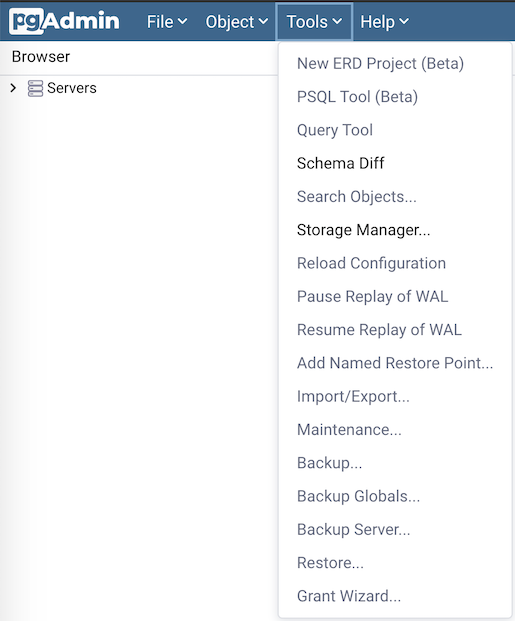
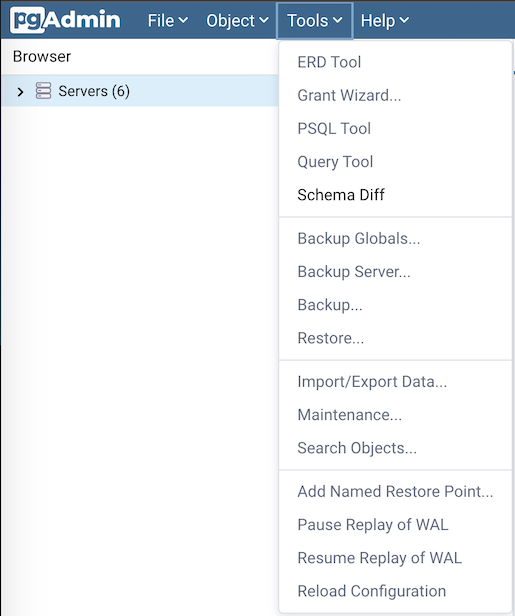
Rearrange tools menu on the basis of usability and form groups of similar sub-menus.

diff --git a/web/pgadmin/tools/backup/static/js/backup.js b/web/pgadmin/tools/backup/static/js/backup.js
@@ -14,14 +14,11 @@ import Notify from '../../../../static/js/helpers/Notifier';
 
 // Backup dialog
 define([
-  'sources/gettext', 'sources/url_for', 'jquery', 'underscore', 'sources/pgadmin',
-  'backbone', 'pgadmin.backgrid',
-  'pgadmin.backform', 'pgadmin.browser', 'sources/utils',
+  'sources/gettext', 'sources/url_for', 'underscore', 'pgadmin.browser',
   'tools/backup/static/js/menu_utils',
   'sources/nodes/supported_database_node',
 ], function(
-  gettext, url_for, $, _, pgAdmin, Backbone, Backgrid, Backform, pgBrowser,
-  commonUtils, menuUtils, supportedNodes
+  gettext, url_for, _, pgBrowser, menuUtils, supportedNodes
 ) {
 
   // if module is already initialized, refer to that.
@@ -61,7 +58,7 @@ define([
         module: this,
         applies: ['tools'],
         callback: 'startBackupGlobal',
-        priority: 12,
+        priority: 2,
         label: gettext('Backup Globals...'),
         icon: 'fa fa-save',
         enable: menuUtils.menuEnabledServer,
@@ -73,7 +70,7 @@ define([
         module: this,
         applies: ['tools'],
         callback: 'startBackupServer',
-        priority: 12,
+        priority: 2,
         label: gettext('Backup Server...'),
         icon: 'fa fa-save',
         enable: menuUtils.menuEnabledServer,
@@ -86,7 +83,7 @@ define([
         node: 'server',
         applies: ['context'],
         callback: 'startBackupGlobal',
-        priority: 12,
+        priority: 2,
         label: gettext('Backup Globals...'),
         icon: 'fa fa-save',
         enable: menuUtils.menuEnabledServer,
@@ -99,7 +96,7 @@ define([
         node: 'server',
         applies: ['context'],
         callback: 'startBackupServer',
-        priority: 12,
+        priority: 2,
         label: gettext('Backup Server...'),
         icon: 'fa fa-save',
         enable: menuUtils.menuEnabledServer,
@@ -111,7 +108,7 @@ define([
         module: this,
         applies: ['tools'],
         callback: 'backupObjects',
-        priority: 11,
+        priority: 2,
         label: gettext('Backup...'),
         icon: 'fa fa-save',
         enable: supportedNodes.enabled.bind(
@@ -129,7 +126,7 @@ define([
           module: this,
           applies: ['context'],
           callback: 'backupObjects',
-          priority: 11,
+          priority: 2,
           label: gettext('Backup...'),
           icon: 'fa fa-save',
           enable: supportedNodes.enabled.bind(

diff --git a/web/pgadmin/browser/server_groups/servers/static/js/server.js b/web/pgadmin/browser/server_groups/servers/static/js/server.js
@@ -105,14 +105,14 @@ define('pgadmin.node.server', [
         {
           name: 'reload_configuration', node: 'server', module: this,
           applies: ['tools', 'context'], callback: 'reload_configuration',
-          category: 'reload', priority: 6, label: gettext('Reload Configuration'),
+          category: 'reload', priority: 10, label: gettext('Reload Configuration'),
           icon: 'fa fa-redo-alt', enable : 'enable_reload_config',data: {
             data_disabled: gettext('Please select a server from the browser tree to reload the configuration files.'),
           },
         },{
           name: 'restore_point', node: 'server', module: this,
           applies: ['tools', 'context'], callback: 'restore_point',
-          category: 'restore', priority: 9, label: gettext('Add Named Restore Point...'),
+          category: 'restore', priority: 7, label: gettext('Add Named Restore Point...'),
           icon: 'fa fa-anchor', enable : 'is_applicable',data: {
             data_disabled: gettext('Please select any server from the browser tree to Add Named Restore Point.'),
           },
@@ -126,14 +126,14 @@ define('pgadmin.node.server', [
         },{
           name: 'wal_replay_pause', node: 'server', module: this,
           applies: ['tools', 'context'], callback: 'pause_wal_replay',
-          category: 'wal_replay_pause', priority: 7, label: gettext('Pause Replay of WAL'),
+          category: 'wal_replay_pause', priority: 8, label: gettext('Pause Replay of WAL'),
           icon: 'fa fa-pause-circle', enable : 'wal_pause_enabled',data: {
             data_disabled: gettext('Please select a connected database as a Super user and run in Recovery mode to Pause Replay of WAL.'),
           },
         },{
           name: 'wal_replay_resume', node: 'server', module: this,
           applies: ['tools', 'context'], callback: 'resume_wal_replay',
-          category: 'wal_replay_resume', priority: 8, label: gettext('Resume Replay of WAL'),
+          category: 'wal_replay_resume', priority: 9, label: gettext('Resume Replay of WAL'),
           icon: 'fa fa-play-circle', enable : 'wal_resume_enabled',data: {
             data_disabled: gettext('Please select a connected database as a Super user and run in Recovery mode to Resume Replay of WAL.'),
           },

diff --git a/web/pgadmin/tools/grant_wizard/static/js/GrantWizard.jsx b/web/pgadmin/tools/grant_wizard/static/js/GrantWizard.jsx
@@ -13,19 +13,19 @@ import url_for from 'sources/url_for';
 import React from 'react';
 import { Box } from '@material-ui/core';
 import { makeStyles } from '@material-ui/core/styles';
-import Wizard from '../helpers/wizard/Wizard';
-import WizardStep from '../helpers/wizard/WizardStep';
+import Wizard from '../../../../static/js/helpers/wizard/Wizard';
+import WizardStep from '../../../../static/js/helpers/wizard/WizardStep';
 import PgTable from 'sources/components/PgTable';
-import { getNodePrivilegeRoleSchema } from '../../../browser/server_groups/servers/static/js/privilege.ui.js';
-import { InputSQL, InputText, FormFooterMessage, MESSAGE_TYPE } from './FormComponents';
-import getApiInstance from '../api_instance';
-import SchemaView from '../SchemaView';
+import { getNodePrivilegeRoleSchema } from '../../../../../pgadmin/browser/server_groups/servers/static/js/privilege.ui.js';
+import { InputSQL, InputText, FormFooterMessage, MESSAGE_TYPE } from '../../../../static/js/components/FormComponents';
+import getApiInstance from '../../../../static/js/api_instance';
+import SchemaView from '../../../../static/js/SchemaView';
 import clsx from 'clsx';
 import Loader from 'sources/components/Loader';
 import Alertify from 'pgadmin.alertifyjs';
 import PropTypes from 'prop-types';
-import PrivilegeSchema from '../../../tools/grant_wizard/static/js/privilege_schema.ui';
-import Notify from '../../../static/js/helpers/Notifier';
+import PrivilegeSchema from './privilege_schema.ui';
+import Notify from '../../../../static/js/helpers/Notifier';
 
 const useStyles = makeStyles(() =>
   ({

diff --git a/web/pgadmin/tools/grant_wizard/static/js/grant_wizard.js b/web/pgadmin/tools/grant_wizard/static/js/grant_wizard.js
@@ -9,23 +9,20 @@
 import React from 'react';
 import ReactDOM from 'react-dom';
 import Theme from 'sources/Theme';
-import GrantWizard from 'sources/components/GrantWizard';
+import GrantWizard from './GrantWizard';
 
 
 // Grant Wizard
 define([
-  'sources/gettext', 'sources/url_for', 'jquery', 'underscore', 'backbone',
-  'pgadmin.alertifyjs', 'pgadmin.backgrid', 'pgadmin.backform',
-  'pgadmin.browser', 'pgadmin.browser.node',
+  'sources/gettext', 'jquery', 'underscore',
+  'pgadmin.alertifyjs', 'pgadmin.browser',
   'tools/grant_wizard/static/js/menu_utils',
-  'sources/utils',
   'sources/nodes/supported_database_node',
   'backgrid.select.all',
   'backgrid.filter', 'pgadmin.browser.server.privilege',
   'pgadmin.browser.wizard',
 ], function(
-  gettext, url_for, $, _, Backbone, Alertify, Backgrid, Backform, pgBrowser,
-  pgNode, menuUtils, commonUtils, supportedNodes
+  gettext, $, _, Alertify, pgBrowser, menuUtils, supportedNodes
 ) {
 
   // if module is already initialized, refer to that.
@@ -48,7 +45,7 @@ define([
         module: this,
         applies: ['tools'],
         callback: 'start_grant_wizard',
-        priority: 14,
+        priority: 1,
         label: gettext('Grant Wizard...'),
         icon: 'fa fa-unlock',
         enable: supportedNodes.enabled.bind(

diff --git a/web/pgadmin/browser/static/js/node.js b/web/pgadmin/browser/static/js/node.js
@@ -498,7 +498,7 @@ define('pgadmin.browser.node', [
 
       return null;
     },
-    addUtilityPanel: function() {
+    addUtilityPanel: function(width, height) {
       var body = window.document.body,
         el = document.createElement('div');
 
@@ -506,10 +506,10 @@ define('pgadmin.browser.node', [
 
       var new_panel = pgBrowser.docker.addPanel(
         'utility_props', window.wcDocker.DOCK.FLOAT, undefined, {
-          w: (screen.width < 700 ?
-            screen.width * 0.95 : screen.width * 0.5),
-          h: (screen.height < 500 ?
-            screen.height * 0.95 : screen.height * 0.5),
+          w: (!_.isUndefined(width) && !_.isNull(width)) ? width :
+            (screen.width < 700 ? screen.width * 0.95 : screen.width * 0.5),
+          h: (!_.isUndefined(height) && !_.isNull(height)) ? height :
+            (screen.height < 500 ? screen.height * 0.95 : screen.height * 0.5),
           x: (screen.width < 700 ? '2%' : '25%'),
           y: (screen.height < 500 ? '2%' : '25%'),
         }

diff --git a/web/pgadmin/tools/backup/static/js/backup.ui.js b/web/pgadmin/tools/backup/static/js/backup.ui.js
@@ -1,3 +1,11 @@
+/////////////////////////////////////////////////////////////
+//
+// pgAdmin 4 - PostgreSQL Tools
+//
+// Copyright (C) 2013 - 2021, The pgAdmin Development Team
+// This software is released under the PostgreSQL Licence
+//
+//////////////////////////////////////////////////////////////
 import gettext from 'sources/gettext';
 import BaseUISchema from 'sources/SchemaView/base_schema.ui';
 import { isEmptyString } from 'sources/validators';

diff --git a/web/pgadmin/tools/backup/static/js/backupGlobal.ui.js b/web/pgadmin/tools/backup/static/js/backupGlobal.ui.js
@@ -1,3 +1,11 @@
+/////////////////////////////////////////////////////////////
+//
+// pgAdmin 4 - PostgreSQL Tools
+//
+// Copyright (C) 2013 - 2021, The pgAdmin Development Team
+// This software is released under the PostgreSQL Licence
+//
+//////////////////////////////////////////////////////////////
 import gettext from 'sources/gettext';
 import BaseUISchema from 'sources/SchemaView/base_schema.ui';
 import { isEmptyString } from 'sources/validators';

diff --git a/web/pgadmin/tools/erd/static/js/erd_module.js b/web/pgadmin/tools/erd/static/js/erd_module.js
@@ -37,7 +37,7 @@ export function initialize(gettext, url_for, $, _, pgAdmin, csrfToken, pgBrowser
         applies: ['tools'],
         callback: 'showErdTool',
         priority: 1,
-        label: gettext('New ERD Project'),
+        label: gettext('ERD Tool'),
         enable: this.erdToolEnabled,
         data: {
           data_disabled: gettext('The selected tree node does not support this option.'),

diff --git a/web/pgadmin/tools/import_export/static/js/import_export.js b/web/pgadmin/tools/import_export/static/js/import_export.js
@@ -408,8 +408,8 @@ define([
         applies: ['tools', 'context'],
         callback: 'callback_import_export',
         category: 'import',
-        priority: 10,
-        label: gettext('Import/Export...'),
+        priority: 3,
+        label: gettext('Import/Export Data...'),
         icon: 'fa fa-shopping-cart',
         enable: supportedNodes.enabled.bind(
           null, pgBrowser.tree, ['table']

diff --git a/web/pgadmin/tools/search_objects/static/js/search_objects.js b/web/pgadmin/tools/search_objects/static/js/search_objects.js
@@ -34,8 +34,9 @@ define([
         applies: ['tools'],
         callback: 'show_search_objects',
         enable: this.search_objects_enabled,
-        priority: 1,
+        priority: 3,
         label: gettext('Search Objects...'),
+        below: true,
         data: {
           data_disabled: gettext('Please select a database from the browser tree to search the database objects.'),
         },

diff --git a/web/pgadmin/tools/restore/static/js/restore.js b/web/pgadmin/tools/restore/static/js/restore.js
@@ -392,9 +392,10 @@ define('tools.restore', [
         module: this,
         applies: ['tools'],
         callback: 'restore_objects',
-        priority: 13,
+        priority: 2,
         label: gettext('Restore...'),
         icon: 'fa fa-upload',
+        below: true,
         enable: supportedNodes.enabled.bind(
           null, pgBrowser.tree, menuUtils.restoreSupportedNodes
         ),

diff --git a/web/pgadmin/tools/maintenance/static/js/maintenance.js b/web/pgadmin/tools/maintenance/static/js/maintenance.js
@@ -165,7 +165,7 @@ define([
         module: this,
         applies: ['tools'],
         callback: 'callback_maintenance',
-        priority: 10,
+        priority: 3,
         label: gettext('Maintenance...'),
         icon: 'fa fa-wrench',
         enable: supportedNodes.enabled.bind(
